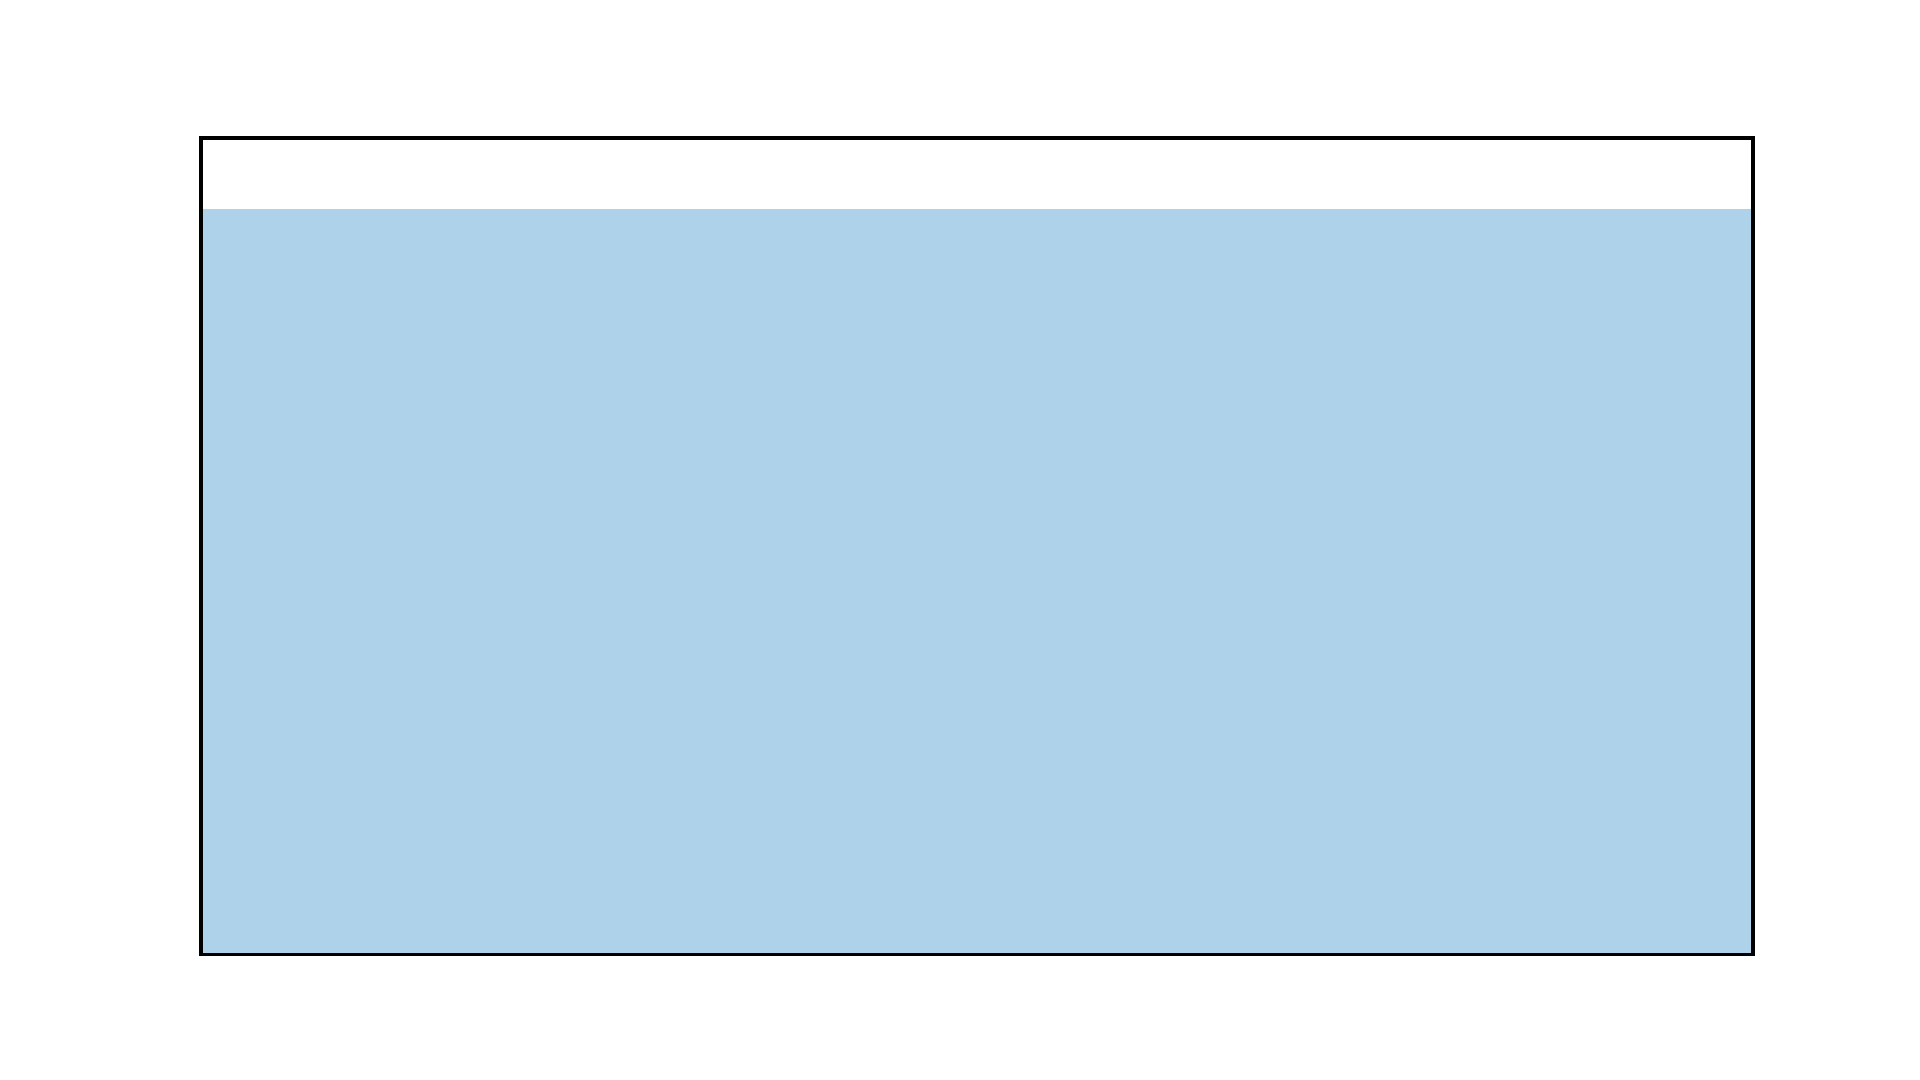
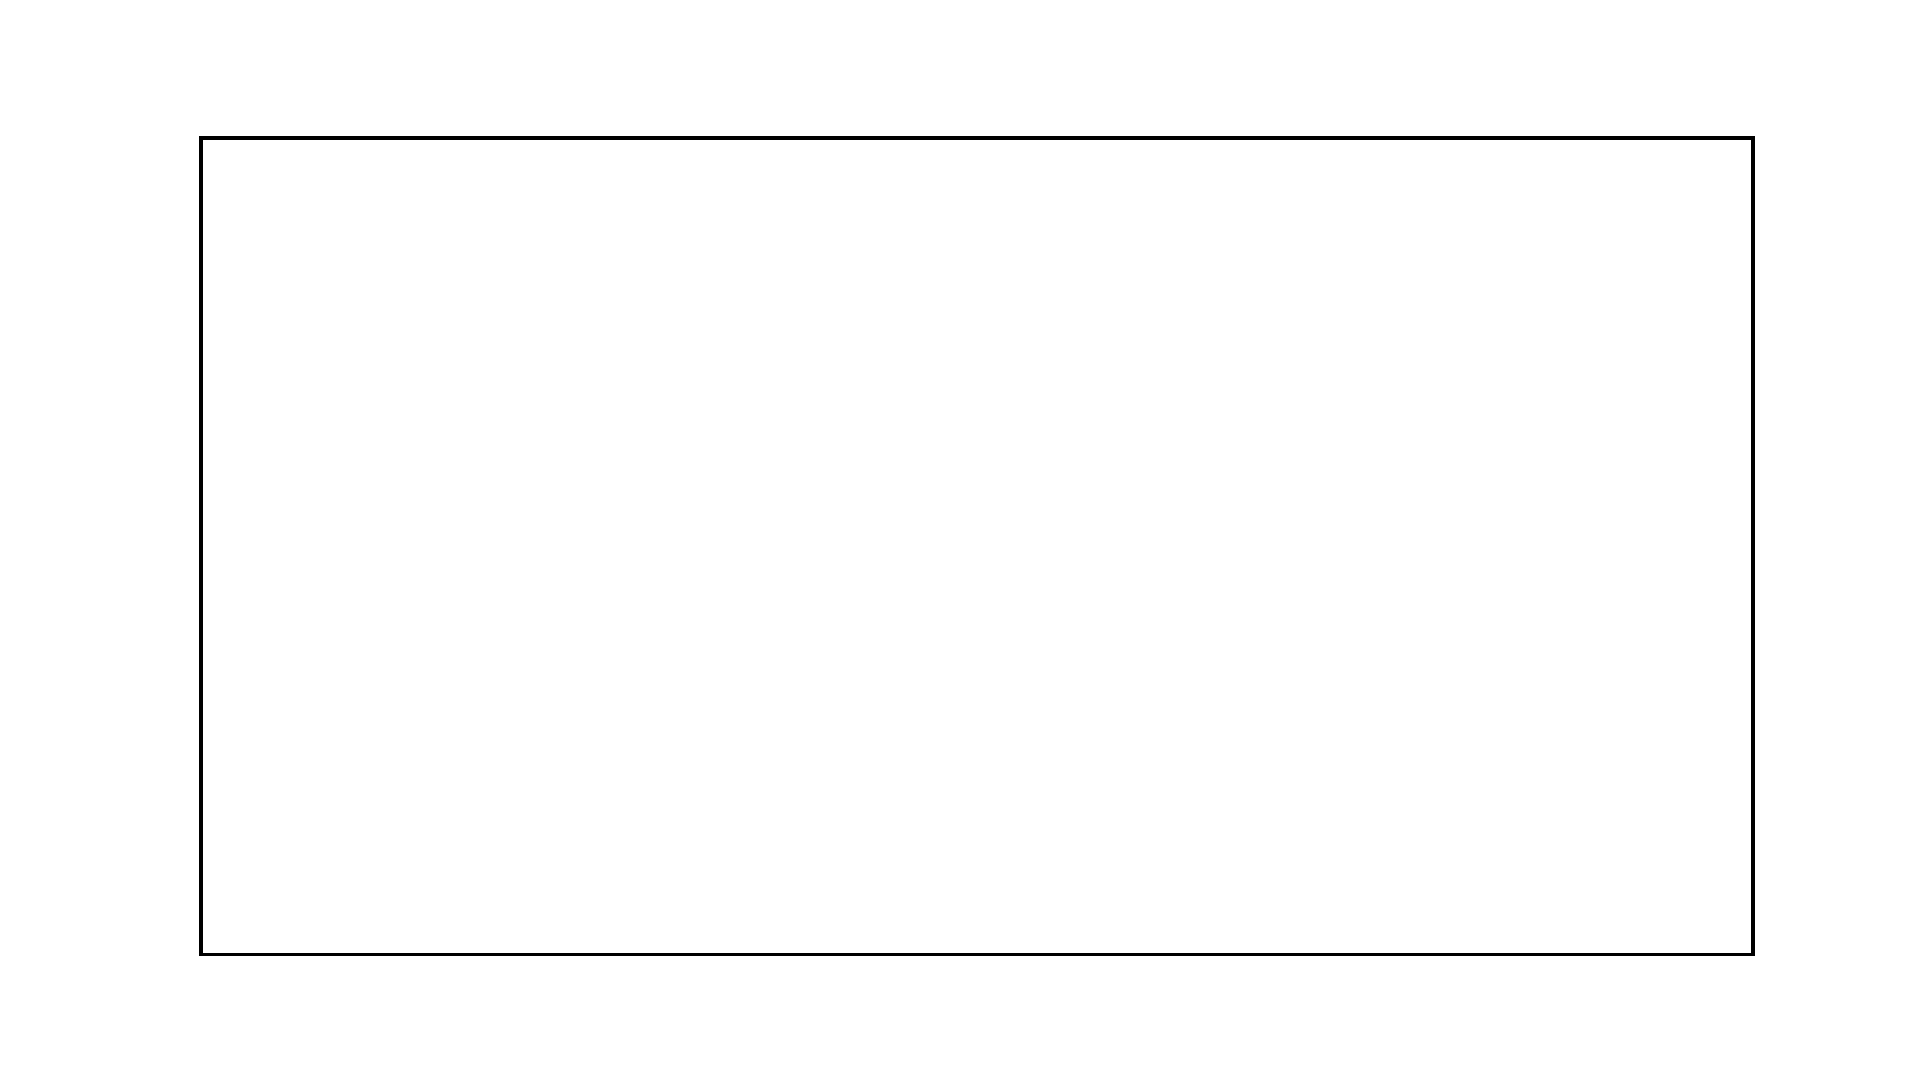
algae growth in 30 minutes

diff --git a/Tiny Aquarium/Assets/Scripts/AlgaeGrowth.cs b/Tiny Aquarium/Assets/Scripts/AlgaeGrowth.cs
@@ -1,0 +1,36 @@
+using System.Collections;
+using System.Collections.Generic;
+using UnityEngine;
+using UnityEngine.UI;
+
+public class AlgaeGrowth : MonoBehaviour
+{
+    public List<Image> algaeSpots;
+    public float growthTime = 1800f;
+    
+    void Start()
+    {
+        //restore algae states from save 
+        foreach (Image image in algaeSpots) {
+            StartCoroutine(AlgaeGrowthRoutine(image));
+        }
+    }
+
+    
+    void Update()
+    {
+       
+    }
+
+    IEnumerator AlgaeGrowthRoutine(Image image) {
+        float elapsedTime = 0.0f;
+        Color c = image.color;
+
+        while(elapsedTime < growthTime) {
+            yield return null;
+            elapsedTime += Time.deltaTime;
+            c.a = Mathf.Clamp01(elapsedTime / growthTime);
+            image.color = c;
+        }
+    }
+}
